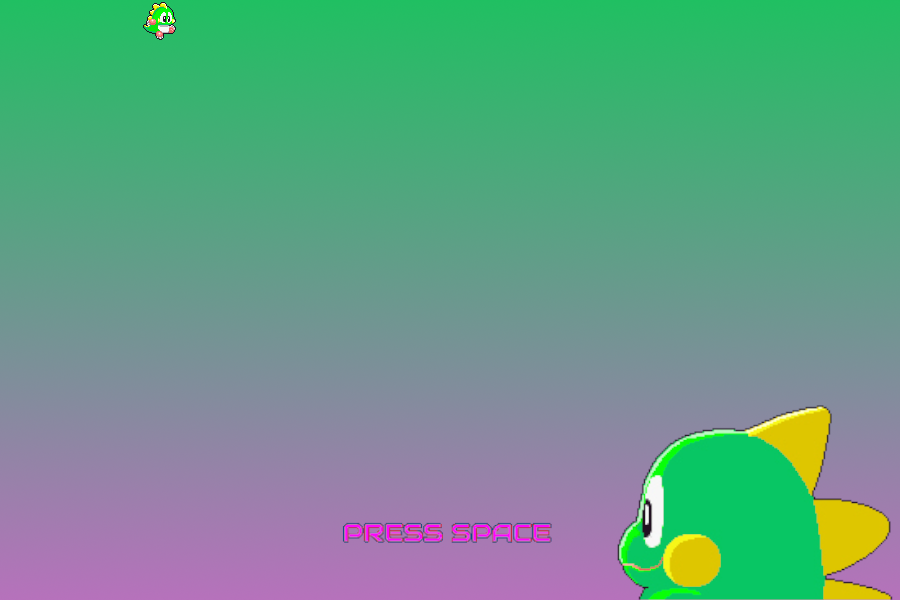
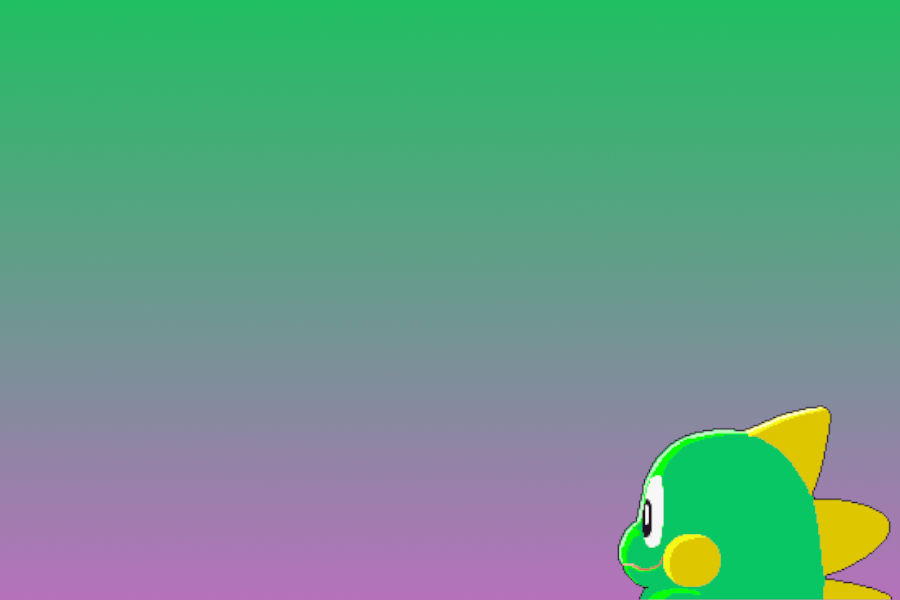
funcionalidad funciona

Changed region(s): [[0.3733, 0.87, 0.6222, 0.93], [0.1556, 0.0, 0.2178, 0.06]]

diff --git a/Games/PuzzleBobble/src/scenes/scene_play.js b/Games/PuzzleBobble/src/scenes/scene_play.js
@@ -216,9 +216,6 @@ class Scene_play extends Phaser.Scene {
                 }
                 gameConfig.velocidadburbujax -= 10;
                 this.flecha.angle = Math.round(this.flecha.angle - 1.00);
-                console.log(gameConfig.velocidadburbujay);
-                console.log(gameConfig.velocidadburbujax);
-                console.log(this.flecha.angle);
             }
 
         } else if (gameConfig.cursores.right.isDown) {
@@ -231,15 +228,12 @@ class Scene_play extends Phaser.Scene {
                 }
                 gameConfig.velocidadburbujax += 10;
                 this.flecha.angle = Math.round(this.flecha.angle + 1.00);
-                console.log(gameConfig.velocidadburbujay);
-                console.log(gameConfig.velocidadburbujax);
-                console.log(this.flecha.angle);
             }
         }
 
 
         //baja el techo cada 8 bolas
-        if (gameConfig.contador >= 8) {
+        if (gameConfig.contador >= 10) {
             if (gameConfig.crearbola) {
                 this.RebotePared.play();
                 gameConfig.altura += 45;
@@ -542,7 +536,7 @@ class Scene_play extends Phaser.Scene {
     // añadir cuando se terminen los niveles
     pasarnivel() {
         gameConfig.numeronivel++;
-        if (gameConfig.numeronivel == 10) {
+        if (gameConfig.numeronivel > 10) {
             this.ganarjuego();
         } else {
             gameConfig.altura = 0;
@@ -591,7 +585,6 @@ class Scene_play extends Phaser.Scene {
         var escena = this.scene;
         var sonido = this.sonidoganar;
         escena.pause();
-        console.log("gane");
         this.add.image(this.sys.game.config.width / 2, 300, "winner").setScale(3);
         setTimeout(function () {
             sonido.stop();

diff --git a/Games/PuzzleBobble/src/scenes/GameOver.js b/Games/PuzzleBobble/src/scenes/GameOver.js
@@ -8,6 +8,12 @@ class GameOver extends Phaser.Scene {
         this.musica = this.sound.add("GameOverPuntuaciones");
         this.musica.play();
         this.add.image(450, 300, "escena3");
+        this.intervalPressSpace = setInterval(() => {
+            let imgPressSpace = this.add.image(config.width / 2, config.height / 2 + 250, "pressSpace");
+            setTimeout(() => {
+                imgPressSpace.destroy();
+            }, 1000);
+        }, 2000);
         this.add.text(50, 25, `Puntos: ${gameConfig.puntos}`, { fontFamily: 'monospace', fontSize: 30 });
         var puntuaciones = JSON.parse(localStorage.getItem("PuzzleBobble"));
         puntuaciones.push({ nombre: "Nuevo!", puntuacion: gameConfig.puntos })
@@ -18,6 +24,7 @@ class GameOver extends Phaser.Scene {
                 return 1;
             } else {
                 return 0;
+                
             }
         });
 

diff --git a/Games/PuzzleBobble/index.html b/Games/PuzzleBobble/index.html
@@ -72,7 +72,7 @@
     </div>
     <script src="indice.js"></script>
     <script src="../../node_modules/phaser/dist/phaser.min.js"></script>
-    <script src="src/js/Bootloader.js"></script>
+    <script src="src/scenes/bootloader.js"></script>
     <script src="src/scenes/Inicio.js"></script>
     <script src="src/scenes/Scene_play.js"></script>
     <script src="src/scenes/GameOver.js"></script>

diff --git a/Games/PuzzleBobble/src/scenes/inicio.js b/Games/PuzzleBobble/src/scenes/inicio.js
@@ -15,7 +15,8 @@ class Inicio extends Phaser.Scene {
             setTimeout(() => {
                 imgPressSpace.destroy();
             }, 1000);
-        }, 1000);
+        }, 2000);
+
 
         this.cursor_empezar = this.input.keyboard.addKey(Phaser.Input.Keyboard.KeyCodes.SPACE);
     }
